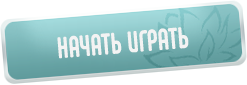
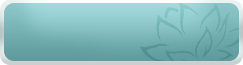
*

diff --git a/style/main.css b/style/main.css
@@ -47,17 +47,17 @@ header a {
     z-index: 10;
 }
 
+header a:hover {
+    background: #529395;
+    transition: background 0.5s ease;
+}
+
 .navLeft a:first-child:hover {
     border-radius: 10px 0 0 10px;
 }
 
 .navRight a:last-child:hover {
     border-radius: 0 10px 10px 0;
-}
-
-a:hover {
-    background: #529395;
-    transition: background 0.5s ease;
 }
 
 .navLeft,
@@ -74,4 +74,40 @@ a:hover {
 
 .logo {
     margin-left: -45rem;
+}
+
+.logo:hover {
+    filter: brightness(1.1);
+    transition: filter 0.5s ease;
+}
+
+.logo:active {
+    filter: brightness(1);
+    transition: filter 0.5s ease;
+}
+
+.btnStart {
+    display: flex;
+    justify-content: center;
+    align-items: center;
+    background: url(../style/img/btn-start.png);
+    background-repeat: no-repeat;
+    background-size: 100%;
+    filter: brightness(0.9);
+    transform: rotate(-4.7deg);
+    margin: 115px 50px;
+    width: 243px;
+    height: 65px;
+    font-size: 2rem;
+    text-transform: uppercase;
+}
+
+.btnStart:hover {
+    filter: brightness(1);
+    transition: filter 0.5s ease;
+}
+
+.btnStart:active {
+    filter: brightness(0.9);
+    transition: filter 0.5s ease;
 }

diff --git a/index.html b/index.html
@@ -27,6 +27,7 @@
             <a href="#">
                 <img src="./style/img/logo.png" alt="Jade Dynasty" class="logo">
             </a>
+            <a href="#" class="btnStart">Начать играть</a>
         </div>
     </main>
 </body>
